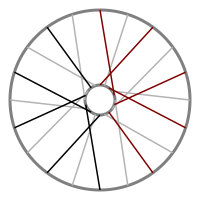
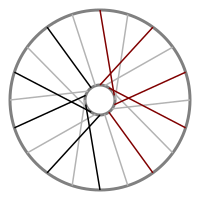
change alignment to padding

diff --git a/src/plot.c b/src/plot.c
@@ -10,164 +10,10 @@
 #include "lu/files.h"
 #include "lu/dynamic_memory.h"
 
+#include "lib.h"
+
 
 lulog *dbg = NULL;
-
-int unpack_generic(const char *pattern, int **offsets, int *length, const char stop, int *padding) {
-
-    LU_STATUS
-
-    const char *p = pattern;
-    int sign = 1;
-
-    while (*p != stop) {
-        if (*p == ',') sign = 1;
-        else if (*p == '-') sign = -sign;
-        else {
-            int offset = *p - '0';
-            if (!(*offsets = realloc(*offsets, (1 + *length) * sizeof(**offsets)))) return LU_ERR_MEM;
-            (*offsets)[*length] = sign * offset;
-            (*length)++;
-            sign = 1;
-        }
-        p++;
-    }
-    p++;   // drop stop character
-    if (*p) {
-        *padding = *p - '0';
-    } else {
-        *padding = 0;
-    }
-
-    LU_NO_CLEANUP
-}
-
-int apply_padding(int **offsets, int *length, int padding) {
-
-    LU_STATUS
-
-    if (padding) {
-        if (!(*offsets = realloc(*offsets, (padding + *length) * sizeof(**offsets)))) return LU_ERR_MEM;
-        for (int i = 0; i < padding; ++i) (*offsets)[*length + i] = 0;
-        *length = padding + *length;
-    }
-
-    LU_NO_CLEANUP
-}
-
-int unpack_c(const char *pattern, int **offsets, int *length) {
-
-    LU_STATUS
-    int padding;
-
-    LU_CHECK(unpack_generic(pattern, offsets, length, 'C', &padding))
-    LU_CHECK(apply_padding(offsets, length, padding))
-
-    LU_NO_CLEANUP
-}
-
-int unpack_b(const char *pattern, int **offsets, int *length) {
-
-    LU_STATUS
-    int padding;
-
-    LU_CHECK(unpack_generic(pattern, offsets, length, 'B', &padding))
-
-    if (!(*offsets = realloc(*offsets, (2 * *length) * sizeof(**offsets)))) return LU_ERR_MEM;
-    for (int i = 0; i < *length; ++i) (*offsets)[*length + i] = -(*offsets)[*length - i - 1];
-    *length = 2 * *length;
-
-    LU_CHECK(apply_padding(offsets, length, padding))
-
-    LU_NO_CLEANUP
-}
-
-int unpack_a(const char *pattern, int **offsets, int *length) {
-
-    LU_STATUS
-    int padding;
-
-    LU_CHECK(unpack_generic(pattern, offsets, length, 'A', &padding))
-
-    if ((*offsets)[*length-1]) luwarn(dbg, "Central offset for group A is non-zero");
-    if (!(*offsets = realloc(*offsets, (2 * *length - 1) * sizeof(**offsets)))) return LU_ERR_MEM;
-    for (int i = 1; i < *length; ++i) (*offsets)[*length + i - 1] = -(*offsets)[*length - i - 1];
-    *length = 2 * *length - 1;
-
-    LU_CHECK(apply_padding(offsets, length, padding))
-
-    LU_NO_CLEANUP
-}
-
-int unpack(const char *pattern, int **offsets, int *length, int *nx, int *ny) {
-
-    LU_STATUS
-
-    if (strchr(pattern, 'A')) {
-        LU_CHECK(unpack_a(pattern, offsets, length));
-        *nx = *ny = 200;
-    } else if (strchr(pattern, 'B')) {
-        LU_CHECK(unpack_b(pattern, offsets, length));
-        *nx = *ny = 200;
-    } else if (strchr(pattern, 'C')) {
-        LU_CHECK(unpack_c(pattern, offsets, length));
-        *nx = *ny = 100;
-    } else {
-        luerror(dbg, "Did not find group type (A, B, C) in %s", pattern);
-        status = LU_ERR_ARG;
-    }
-
-    LU_NO_CLEANUP
-}
-
-int dump_pattern(int *offsets, int length) {
-
-    LU_STATUS
-    char *buffer = NULL, *p;
-
-    LU_ALLOC(dbg, buffer, length * 3 + 4)
-    p = buffer;
-    for (int i = 0; i < length; ++i) {
-        if (i) p += sprintf(p, ",");
-        p += sprintf(p, "%d", offsets[i]);
-    }
-    *p = '\0';
-
-    luinfo(dbg, "Pattern: %s (length %d)", buffer, length);
-
-LU_CLEANUP
-    free(buffer);
-    LU_RETURN
-}
-
-int rim_size(int length, int *holes) {
-    LU_STATUS
-    switch(length) {
-    case 1:
-    case 2:
-    case 4:
-    case 8:
-        *holes = 32;
-        break;
-    case 3:
-    case 6:
-    case 9:
-        *holes = 36;
-        break;
-    case 7:
-        *holes = 28;
-        break;
-    case 5:
-    case 10:
-        *holes = 20;
-        break;
-    default:
-        luerror(dbg, "Cannot infer number of holes for a pattern of length %d", length);
-        status = LU_ERR_ARG;
-    }
-    if (!status) luinfo(dbg, "Will plot a rim with %d holes", *holes);
-    LU_RETURN
-}
 
 void draw_circle(cairo_t *cr, float r) {
     cairo_move_to(cr, r, 0);
@@ -190,7 +36,7 @@ void draw_pattern(cairo_t *cr, int *offsets, int length, float r_hub, float r_ri
     }
 }
 
-int draw(int *offsets, int length, int holes, int nx, int ny, const char *path) {
+int draw(int *offsets, int length, int holes, int nx, int ny, int align, const char *path) {
 
     LU_STATUS;
     float r_hub = 0.15, r_rim = 0.9, wheel_width = 0.03, wheel_grey = 0.5;
@@ -214,7 +60,7 @@ int draw(int *offsets, int length, int holes, int nx, int ny, const char *path) 
     cairo_set_line_width(cr, spoke_width);
     cairo_set_source_rgb(cr, spoke_grey, spoke_grey, spoke_grey);
     for (int i = 0; i < holes / (2 * length); ++i) {
-        draw_pattern(cr, offsets, length, r_hub, r_rim, holes, 2 * i * length - 1, -1);
+        draw_pattern(cr, offsets, length, r_hub, r_rim, holes, 2 * i * length - 1 - 2 * align, -1);
     }
     cairo_set_source_rgb(cr, 0, 0, 0);
     for (int i = 1; i < holes / (2 * length); ++i) {
@@ -231,39 +77,18 @@ LU_CLEANUP
     LU_RETURN
 }
 
-int make_path(const char *pattern, char **path) {
-
-    LU_STATUS
-    const char *p1;
-    char *p2;
-
-    LU_ALLOC(dbg, *path, strlen(pattern) + 5)
-    p1 = pattern; p2 = *path;
-    while(*p1) {
-        if (*p1 != ',') *(p2++) = *p1;
-        p1++;
-    }
-    p2 += sprintf(p2, ".png");
-    *p2 = '\0';
-
-    luinfo(dbg, "File path: %s", *path);
-
-LU_CLEANUP
-    LU_RETURN
-}
-
 int plot(const char *pattern) {
 
     LU_STATUS;
-    int *offsets = NULL, length = 0, holes = 0, nx = 0, ny = 0;
+    int *offsets = NULL, length = 0, holes = 0, nx = 0, ny = 0, padding;
     char *path = NULL;
 
     luinfo(dbg, "Pattern '%s'", pattern);
-    LU_CHECK(unpack(pattern, &offsets, &length, &nx, &ny));
-    LU_CHECK(dump_pattern(offsets, length));
-    LU_CHECK(rim_size(length, &holes));
-    LU_CHECK(make_path(pattern, &path));
-    LU_CHECK(draw(offsets, length, holes, nx, ny, path));
+    LU_CHECK(unpack(dbg, pattern, &offsets, &length, &nx, &ny, &padding));
+    LU_CHECK(dump_pattern(dbg, offsets, length));
+    LU_CHECK(rim_size(dbg, length, &holes));
+    LU_CHECK(make_path(dbg, pattern, &path));
+    LU_CHECK(draw(offsets, length, holes, nx, ny, padding, path));
 
 LU_CLEANUP
     free(path);
@@ -282,7 +107,6 @@ void usage(const char *progname) {
 int main(int argc, char** argv) {
 
     LU_STATUS
-
     lulog_mkstderr(&dbg, lulog_level_debug);
     if (argc != 2 || !strcmp("-h", argv[1])) {
         usage(argv[0]);

diff --git a/src/search.c b/src/search.c
@@ -440,7 +440,6 @@ void usage(const char *progname) {
 int main(int argc, char** argv) {
 
     LU_STATUS
-
     lulog_mkstdout(&dbg, lulog_level_debug);
 
     if (argc != 1) {

diff --git a/README.md b/README.md
@@ -582,4 +582,4 @@ group C results are already, I've lost the motivation...
 
   * Align spokes "behind" so that drawings are more realistic.
 
-* 2016-09-20 - remove alignment (makes no sense in retrospect).
+* 2016-09-20 - change alignment to padding.
